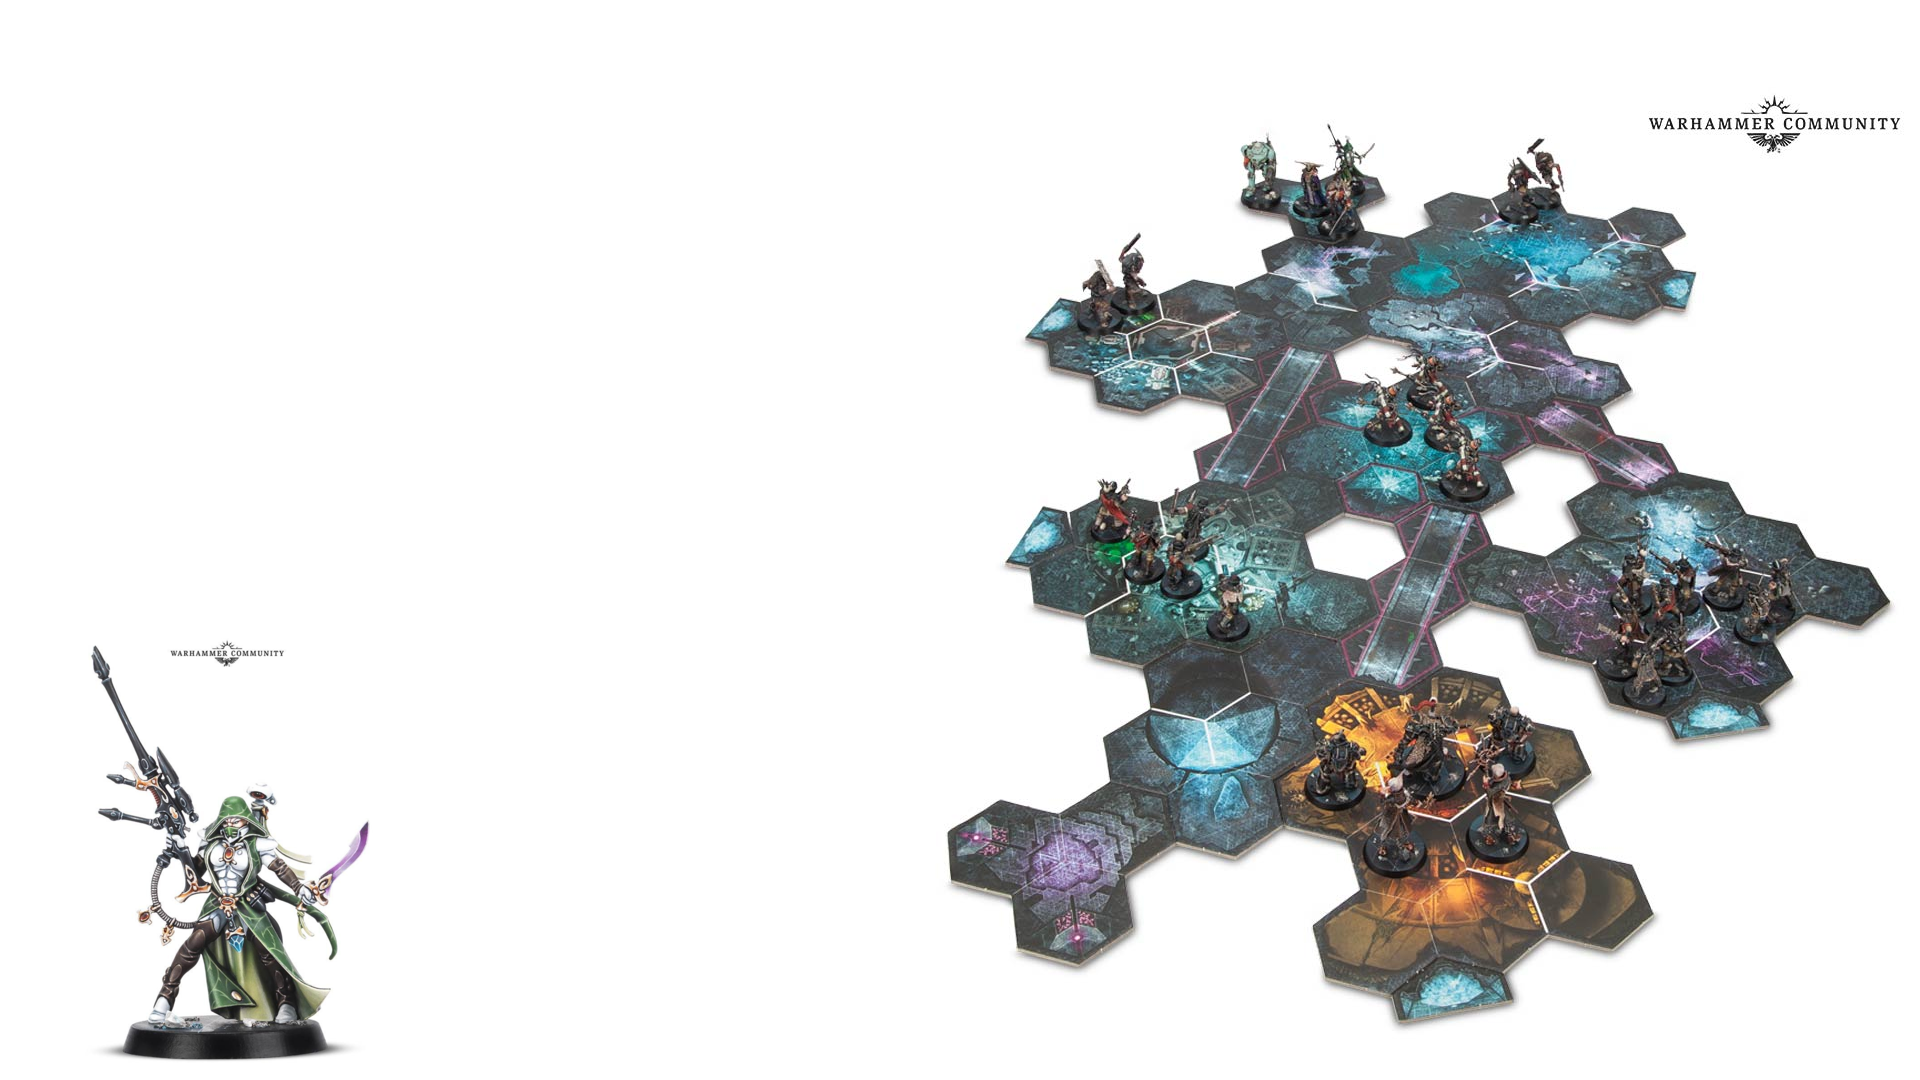
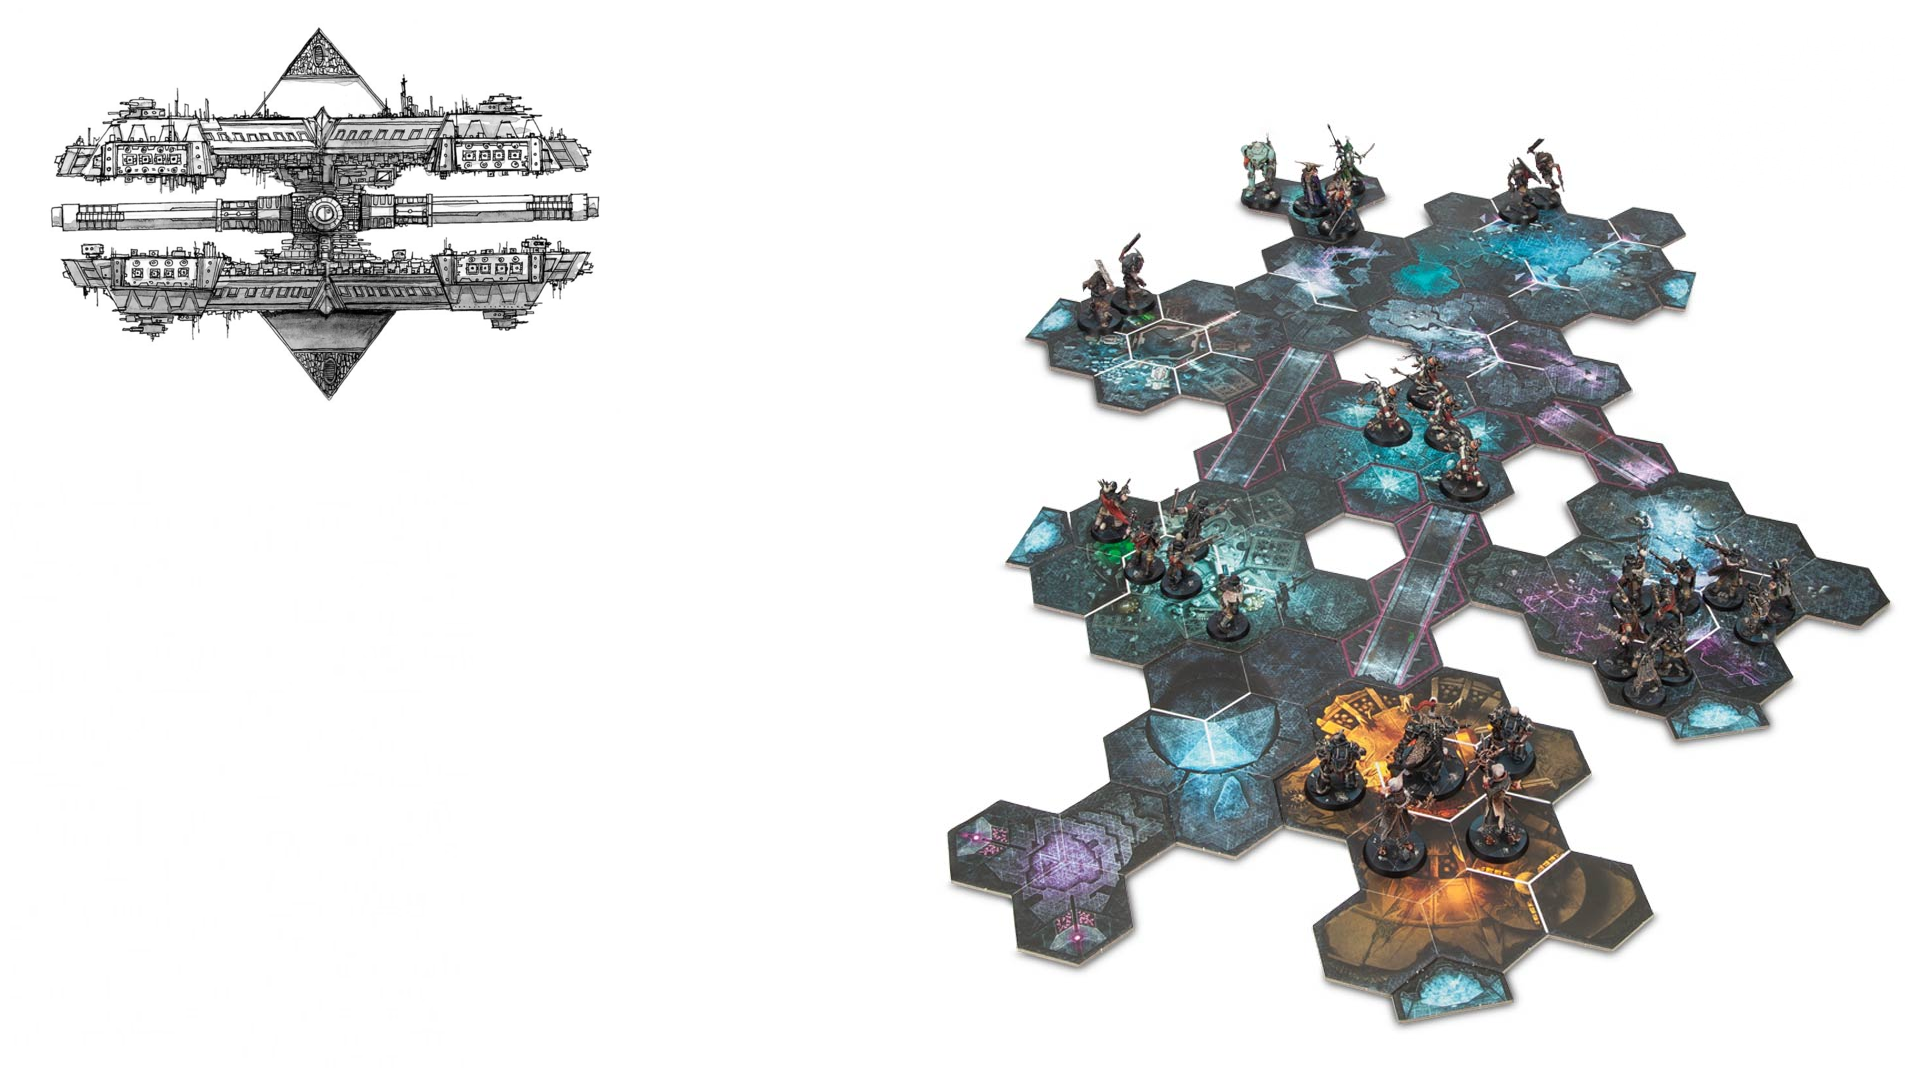
add image Background

diff --git a/models/combatmapsModel.js b/models/combatmapsModel.js
@@ -2,7 +2,9 @@ var mongoose = require('mongoose')
 
 const CombatMapsSchema  = new mongoose.Schema({
     name: String,
-    image: String
+    image: String,
+    hostileNumber: Number,
+    re
 })
 
 const Map = mongoose.model('maps', CombatMapsSchema)
